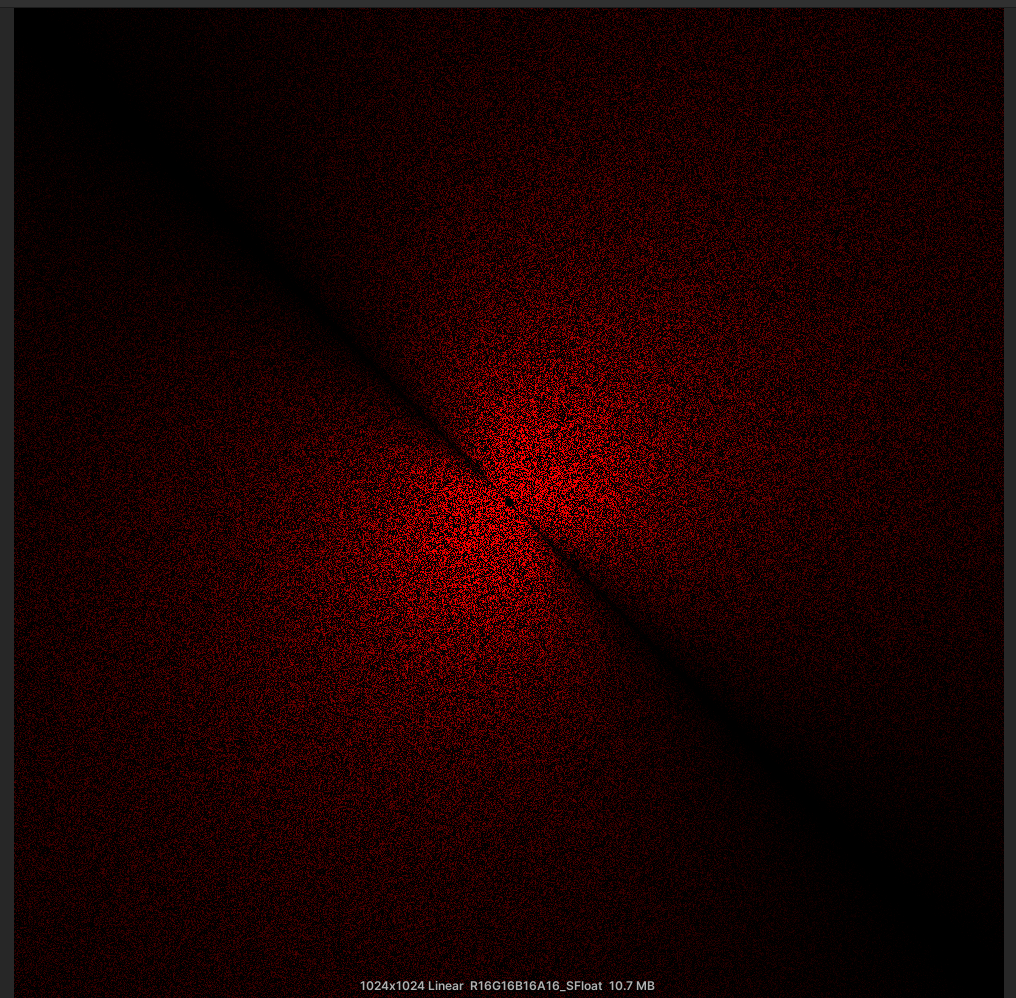
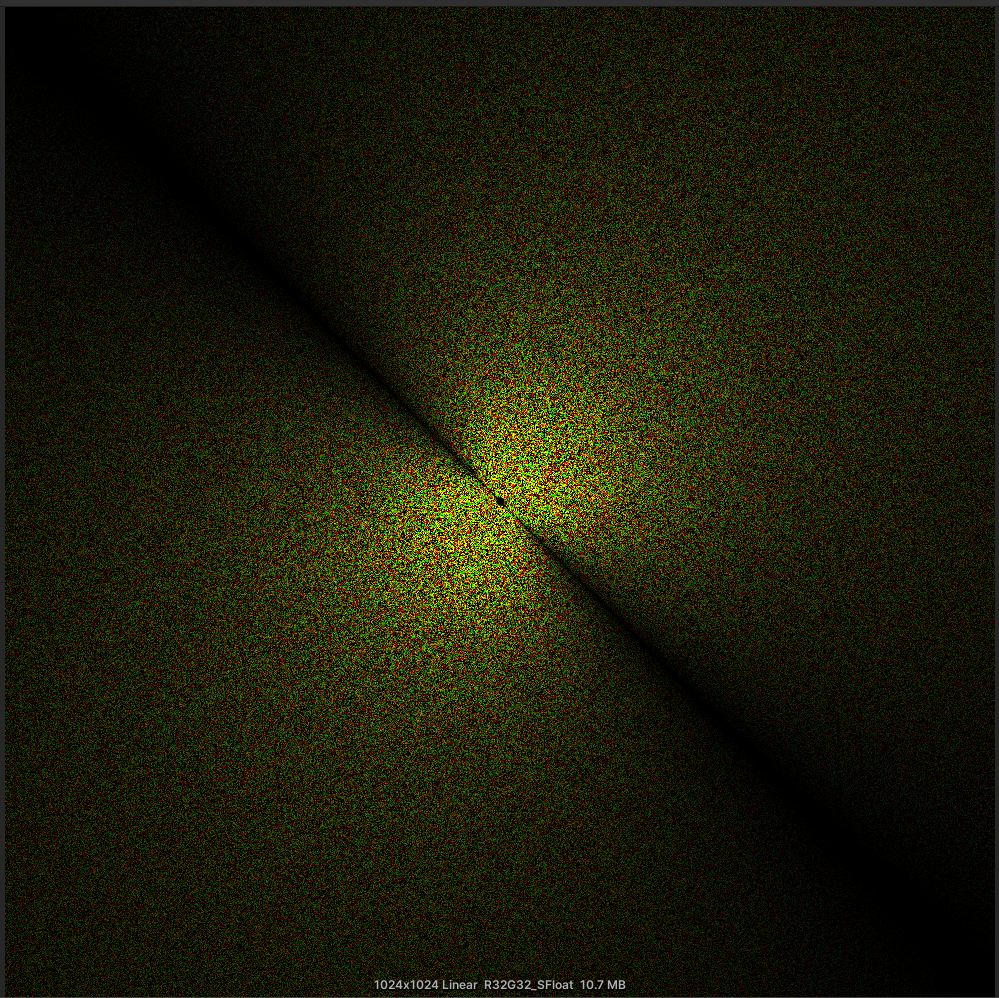
Preparing for IFFT step!

diff --git a/Assets/Scripts/WaveHeightGenerator.cs b/Assets/Scripts/WaveHeightGenerator.cs
@@ -4,51 +4,57 @@ using UnityEngine;
 public class WaveHeightGenerator : MonoBehaviour {
     public ComputeShader compute;
     public RenderTexture spectrum_texture;
+    public RenderTexture height_texture;
     [Range(64, 1024)]
     public int N;
 
-    private GameObject display_quad;
     private bool compute_configured = false;
     private const int init_spectrum_kernel = 0;
+    private const int generate_height_spectrum_kernel = 1;
 
     void Start() {
-        CreateDisplayQuad();
         CreateSpectrumTexture();
+        CreateHeightTexture();
     }
 
     void OnDestroy() {
-        Destroy(display_quad);
         spectrum_texture.Release();
+        height_texture.Release();
     }
 
     private void Update() {
         if (!compute_configured) {
-            compute.SetTexture(init_spectrum_kernel, "initial_spectrum", spectrum_texture);
+            compute.SetTexture(init_spectrum_kernel, "spectrum_texture", spectrum_texture);
+            compute.SetTexture(generate_height_spectrum_kernel, "spectrum_texture", spectrum_texture);
+            compute.SetTexture(generate_height_spectrum_kernel, "height_texture", height_texture);
             compute.SetInt("u_N", N);
             compute.SetFloat("u_L", 256f);
             compute.SetVector("u_wind_direction", new Vector4(1, 1, 0, 0).normalized);
             compute.SetFloat("u_wind_speed", 5f);
             compute.Dispatch(init_spectrum_kernel, N / 8, N / 8, 1);
+            compute.Dispatch(generate_height_spectrum_kernel, N / 8, N / 8, 1);
             compute_configured = true;
         }
     }
 
-    private void CreateSpectrumTexture() {
-        spectrum_texture = new RenderTexture(N, N, 0, RenderTextureFormat.ARGBHalf, RenderTextureReadWrite.Linear) {
+    private RenderTexture CreateRenderTexture(int width, int height, int depth, RenderTextureFormat format) {
+        var texture = new RenderTexture(width, height, depth, format, RenderTextureReadWrite.Linear) {
             filterMode = FilterMode.Bilinear,
             wrapMode = TextureWrapMode.Repeat,
             enableRandomWrite = true,
             useMipMap = true,
             autoGenerateMips = false,
-            anisoLevel = 16,
+            anisoLevel = 16
         };
-        spectrum_texture.Create();
+        texture.Create();
+        return texture;
     }
 
-    private void CreateDisplayQuad() {
-        // Create a quad
-        display_quad = GameObject.CreatePrimitive(PrimitiveType.Quad);
-        display_quad.transform.position = transform.position + transform.forward * 2f; // Place in front of camera
-        display_quad.transform.localScale = new Vector3(1f, 1f, 1f) * 2f;
+    private void CreateSpectrumTexture() {
+        spectrum_texture = CreateRenderTexture(N, N, 0, RenderTextureFormat.RGFloat);
+    }
+
+    private void CreateHeightTexture() {
+        height_texture = CreateRenderTexture(N, N, 0, RenderTextureFormat.RFloat);
     }
 }
